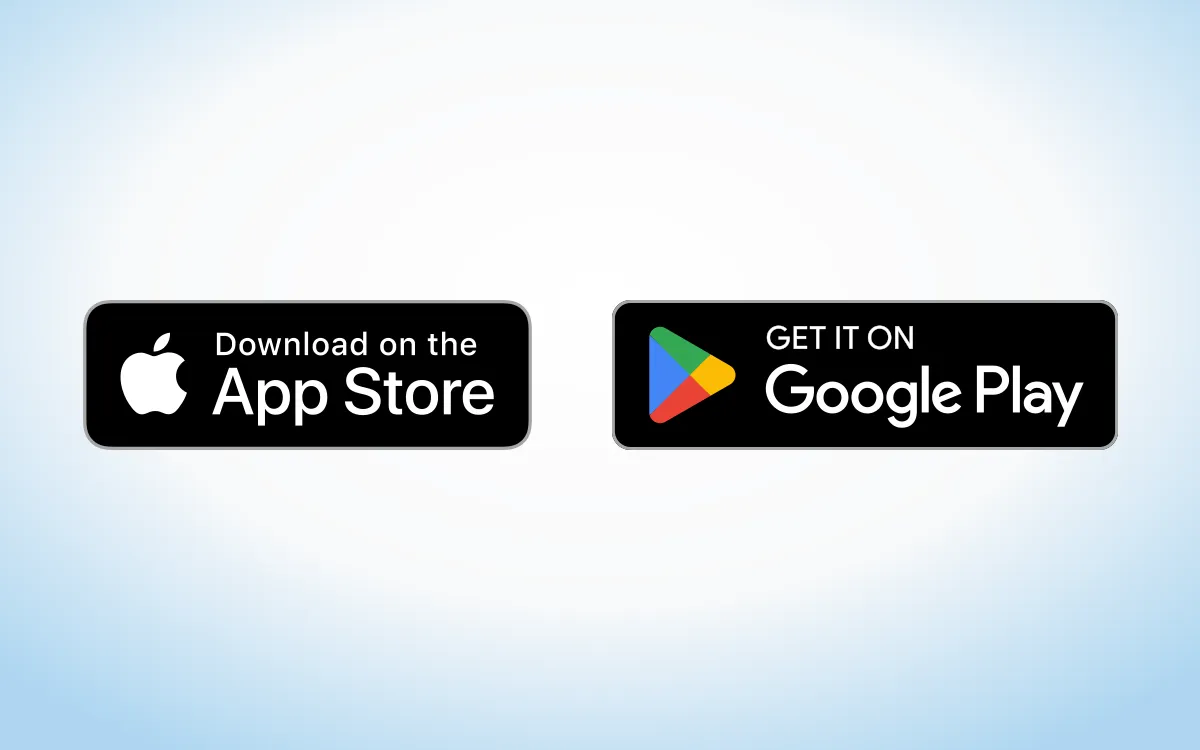
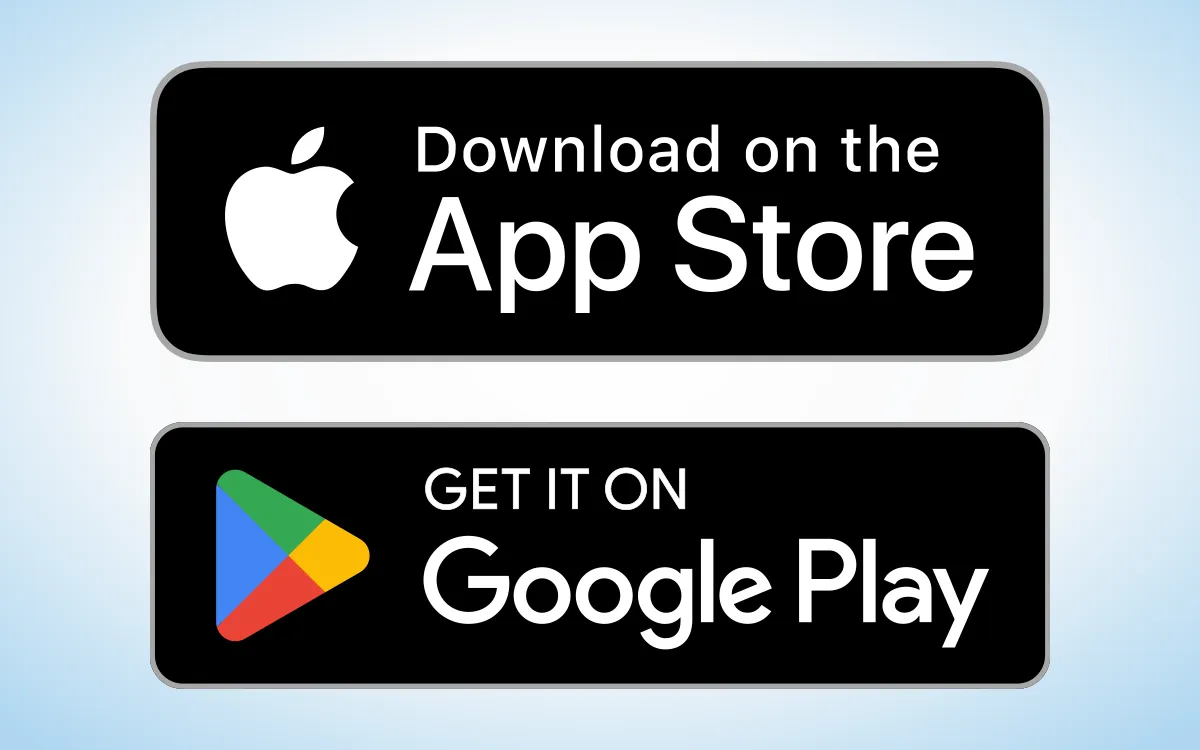
content(blog): greg's text edits + fix linked-image behaviour in posts
Post text pulled from Notion: the CTA now ends "You won't regret it",
the "I've never asked you for anything" line is gone, and the review ask
picks up "hopefully be around for a long time".

THE TEMPLATE BUG. A store badge is an <img> inside an <a>, and the post
page treated every <img> in the article as an illustration. Two
consequences, both visible on this post: the lightbox click handler
matched the badge and opened ON TOP of the navigation it had just
started, and `.blog-prose img` painted it with a framed border, a drop
shadow and `cursor: zoom-in` -- so it advertised a zoom it should never
have offered. Fixed generally, not for this post: the handler now skips
any image inside a link, and `.blog-prose a img` drops the illustration
chrome for a plain pointer.

Badges were also visibly mismatched (40px vs 71px tall) because the
assets' intrinsic sizes differ. Apple's ratio is 2.99 and Google's 3.37,
so matching on width leaves one taller; `.store-badges img` sets height
instead and lets width follow. Verified rendered: 144x48 and 162x48,
cursor pointer, no border, click goes straight to the store.

Hero image restacked vertically at 900px wide per badge, filling 628 of
750px rather than sitting in a thin band.

Claude-Session: https://claude.ai/code/session_01AZxrrwjKJiZE1LszVhidrZ

diff --git a/content/blog/2026-08-28-the-apps-are-here.md b/content/blog/2026-08-28-the-apps-are-here.md
@@ -57,13 +57,11 @@ I’m honestly confused about why people don’t talk about this more. Not about
 
 But anyway - we’re here, and that’s all water under the bridge. The only thing left that’s important:
 
-**[DOWNLOAD THE BEANIES APP](https://beanies.family/download?utm_source=blog&utm_medium=post&utm_campaign=the-apps-are-here&utm_content=main-cta)! PLEASE!**
+**[DOWNLOAD THE BEANIES APP](https://beanies.family/download?utm_source=blog&utm_medium=post&utm_campaign=the-apps-are-here&utm_content=main-cta)! You won’t regret it.**
 
-If I’ve never asked you for anything before in my life, I’m asking you for this 🙏
+If you're on my mailing list, or reading this right now, or a fan of [beanies.family](https://beanies.family/?utm_source=blog&utm_medium=post&utm_campaign=the-apps-are-here&utm_content=fan-mention) in any way, shape, or form, [download and review our app](https://beanies.family/download?utm_source=blog&utm_medium=post&utm_campaign=the-apps-are-here&utm_content=main-cta-review). That's the most important thing that you can do to help us. And me. And yourself.
 
-If you're on my mailing list, or reading this right now, or a fan of [beanies.family](https://beanies.family/?utm_source=blog&utm_medium=post&utm_campaign=the-apps-are-here&utm_content=fan-mention) in any way, shape, or form, [download and review our app](https://beanies.family/download?utm_source=blog&utm_medium=post&utm_campaign=the-apps-are-here&utm_content=main-cta-review). That's the most important thing that you can do to help us (and me).
-
-The _**review**_ part is key for helping [beanies.family](https://beanies.family/?utm_source=blog&utm_medium=post&utm_campaign=the-apps-are-here&utm_content=review-ask) to gain traction and visibility in the app stores, so if you are so inclined, please give us a 5-star rating. And if you are even more inclined, a review (an honest review, about anything you want). If you have something you really want to complain about, though, such as the fact that I bug you every week with dumb blogs, you can always [tell me to my (virtual) face](https://beanies.family/discord?utm_source=blog&utm_medium=post&utm_campaign=the-apps-are-here&utm_content=discord).
+The _**review**_ part is key for helping [beanies.family](https://beanies.family/?utm_source=blog&utm_medium=post&utm_campaign=the-apps-are-here&utm_content=review-ask) to gain traction and visibility in the app stores, and hopefully be around for a long time. So if you are so inclined, please give us a 5-star rating. And if you are even more inclined, a review (an honest review, about anything you want). If you have something you really want to complain about, though, such as the fact that I bug you every week with dumb blogs, you can always [tell me to my (virtual) face](https://beanies.family/discord?utm_source=blog&utm_medium=post&utm_campaign=the-apps-are-here&utm_content=discord).
 
 📢📢📢 **Guess what: The first _10 families_ to download the app and give me a review will win the exclusive prize of having [beanies.family](https://beanies.family/?utm_source=blog&utm_medium=post&utm_campaign=the-apps-are-here&utm_content=prize) for _$1 per month_, forever** (because I promise, I will start charging at some point). And that’s no joke (I’m actually keeping a list). Just [ping me on discord](https://beanies.family/discord?utm_source=blog&utm_medium=post&utm_campaign=the-apps-are-here&utm_content=prize-claim) once you’ve left the review, and you’re golden. 📢📢📢
 
